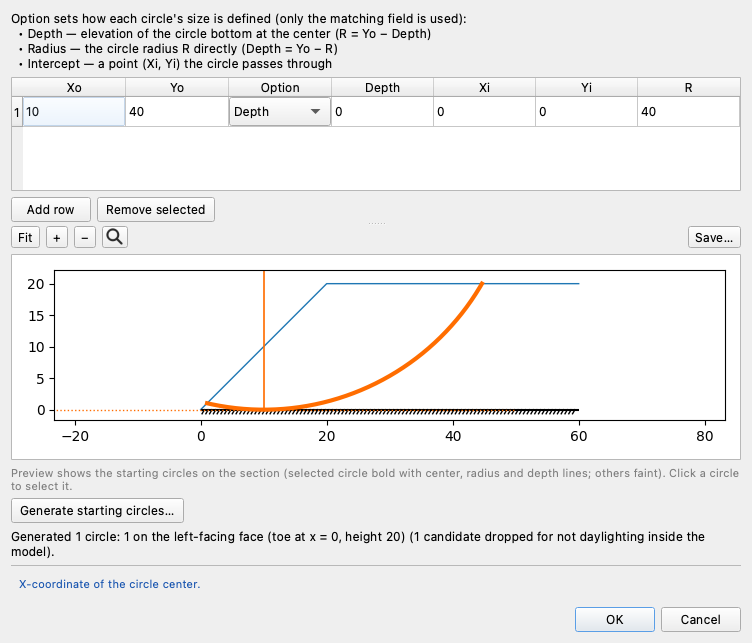
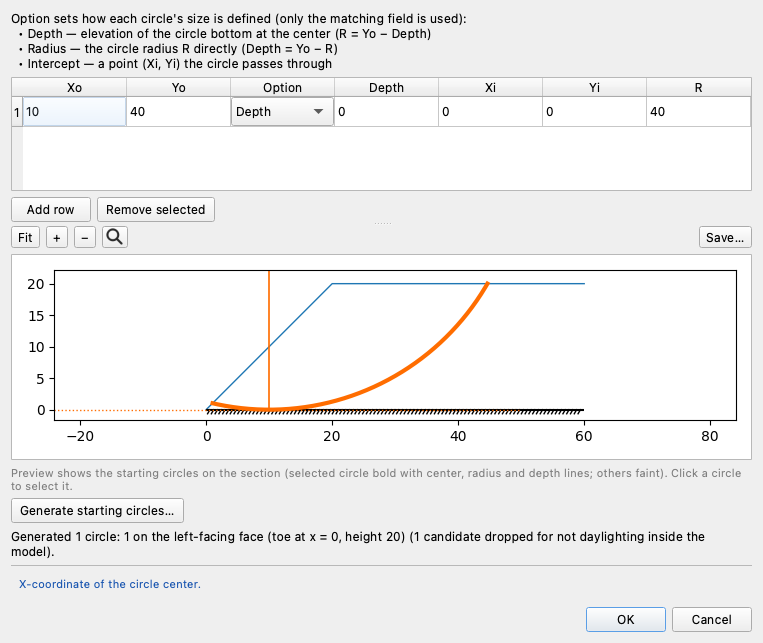
studio: the fit holds for forty circles, not just for one
Two ways the fit stopped being a fit as soon as the table was not the tutorial's
one-row one, both found by opening the dialog on forty circles and reading the
picture:

  - the row-number gutter widens with the row count, and its width before the first
    layout is not the width it ends up with, so R went back over the right edge and
    the horizontal scroll bar came back. The estimate now uses the gutter's size
    HINT, and the dialog closes whatever gap is left once the widgets have real
    geometry -- the last word on the fit belongs to them, not to a prediction.
  - a table taller than the screen asked for the whole splitter and got it, leaving
    the preview at nothing: the section simply was not in the dialog. The preview
    keeps its minimum now and the table gives way, since the table is the pane with
    a scroll bar for the purpose.

Both are covered by the check at forty rows, and both mutations -- dropping the
post-layout correction, dropping the clamp -- are caught.

Claude-Session: https://claude.ai/code/session_01XjjT2aBxw8gY7EFdpoUcpj

diff --git a/studio/editors.py b/studio/editors.py
@@ -1678,8 +1678,12 @@ class TableEditorDialog(QDialog):
 
         table = self._editable.table
         margins = self.layout().contentsMargins()
+        # sizeHint(), not width(): the row-number gutter is only as wide as the row
+        # count needs, and before the table has been laid out its width() has not
+        # caught up with the rows in it -- a 40-row table's gutter is wider than a
+        # 1-row table's, and measuring the stale one puts a column back over the edge.
         return (_fit_columns(table)
-                + table.verticalHeader().width() + 2 * table.frameWidth()
+                + table.verticalHeader().sizeHint().width() + 2 * table.frameWidth()
                 + self.style().pixelMetric(QStyle.PM_ScrollBarExtent)
                 + margins.left() + margins.right())
 
@@ -1696,7 +1700,9 @@ class TableEditorDialog(QDialog):
         dialog cannot be dragged small enough to squeeze the preview into a strip, and
         anything that appears later (the generator's summary line) grows the layout's
         own minimum, so the dialog grows with it rather than taking the room out of
-        the picture."""
+        the picture. Where the two cannot both be satisfied -- a table of forty
+        circles is taller than any screen -- the preview keeps its minimum and the
+        table scrolls, which is the pane that has a scroll bar for the purpose."""
         width = self._content_width()
         pane = self._table_pane_height()
         preview = (_PREVIEW_MIN_LINES * self.fontMetrics().height()
@@ -1706,8 +1712,8 @@ class TableEditorDialog(QDialog):
         # Everything that is not the splitter: help text, legend, generate bar,
         # buttons, help strip. sizeHint() knows them all; the splitter's own hint is
         # replaced by the two pane heights measured above.
-        height = (self.sizeHint().height() - self._split.sizeHint().height()
-                  + pane + preview)
+        chrome = self.sizeHint().height() - self._split.sizeHint().height()
+        height = chrome + pane + preview
 
         screen = self.screen() or QApplication.primaryScreen()
         if screen is not None:
@@ -1715,7 +1721,9 @@ class TableEditorDialog(QDialog):
             width = min(width, avail.width())
             height = min(height, avail.height())
         self.resize(width, height)
-        self._split.setSizes([pane, max(0, height - pane)])
+        split_height = max(0, height - chrome)
+        pane = max(0, min(pane, split_height - preview))
+        self._split.setSizes([pane, split_height - pane])
 
     def _refit_columns(self):
         """Re-fit the columns to content that arrived after the dialog opened (a
@@ -1727,9 +1735,33 @@ class TableEditorDialog(QDialog):
             return
         needed = self._content_width()
         if needed > self.width():
-            screen = self.screen() or QApplication.primaryScreen()
-            avail = screen.availableGeometry().width() if screen is not None else needed
-            self.resize(min(needed, avail), self.height())
+            self._grow(needed)
+        self._grow_to_fit_columns()
+
+    def _grow(self, width):
+        """Widen to ``width``, never past the screen."""
+        screen = self.screen() or QApplication.primaryScreen()
+        avail = screen.availableGeometry().width() if screen is not None else width
+        self.resize(min(width, avail), self.height())
+
+    def showEvent(self, event):
+        super().showEvent(event)
+        if getattr(self, "_content_sized", False):
+            self._grow_to_fit_columns()
+
+    def _grow_to_fit_columns(self):
+        """Close any gap between what the columns need and what the viewport gives
+        them, now that the widgets have been laid out.
+
+        The estimate made before the first layout is close but not exact: the
+        row-number gutter widens with the row count, and a style adds its own header
+        margins only when it lays the header out. Both are small and both are in the
+        direction that hides a column, so the last word on the fit belongs to the
+        widgets once they have real geometry."""
+        table = self._editable.table
+        deficit = table.horizontalHeader().length() - table.viewport().width()
+        if deficit > 0:
+            self._grow(self.width() + deficit)
 
     def _build_generate_bar(self, spec):
         """The generator button, dimmed with its own reason when it cannot run.

diff --git a/test/circles_editor_check.py b/test/circles_editor_check.py
@@ -68,6 +68,17 @@ def _bare_model():
     return d
 
 
+def _many_circles(n):
+    """The same model carrying ``n`` circles — a table taller than any screen, where
+    the row-number gutter is wider and the two panes cannot both have what they ask
+    for. Both are ways a fit measured on a one-row table stops being a fit."""
+    d = _load(LEM01)
+    base = dict(d["circles"][0])
+    d["circles"] = [dict(base, Xo=float(i), Yo=40.0 + i * 0.123456789)
+                    for i in range(n)]
+    return d
+
+
 def _shown(dlg):
     """Show ``dlg`` offscreen and let the layout settle, so widths and heights are
     the ones a user would meet rather than pre-layout hints."""
@@ -111,7 +122,8 @@ def test_all_columns_visible():
     editor = CATEGORY_EDITORS["circles"]
     out = []
     for label, model in (("with a circle", _load(LEM01)),
-                         ("empty", _bare_model())):
+                         ("empty", _bare_model()),
+                         ("forty circles", _many_circles(40))):
         dlg = _shown(editor.build(model, None))
         table = dlg._editable.table
         header = table.horizontalHeader()
@@ -158,6 +170,24 @@ def test_preview_is_below_the_table():
     out += _fail(caption is not None and
                  caption.geometry().bottom() <= dlg._preview.rect().bottom(),
                  "the preview caption is clipped by the bottom of its pane")
+    floor = dlg._preview.minimumHeight()
+    out += _fail(floor > 0 and dlg._preview.height() >= floor,
+                 f"the preview opened {dlg._preview.height()} px tall against its own "
+                 f"{floor} px minimum")
+    dlg.deleteLater()
+
+    # A table taller than the screen must not squeeze the preview out of the dialog:
+    # the table is the pane with a scroll bar, so it is the pane that gives way.
+    dlg = _shown(CATEGORY_EDITORS["circles"].build(_many_circles(40), None))
+    # The splitter's allocation, not the widget's own height: a squeezed pane keeps
+    # reporting the height it asked for while the splitter draws it at nothing.
+    given = dlg._split.sizes()[1]
+    out += _fail(given >= dlg._preview.minimumHeight(),
+                 f"forty circles left the preview {given} px of the splitter, under "
+                 f"its {dlg._preview.minimumHeight()} px minimum")
+    out += _fail(dlg._editable.table.verticalScrollBar().isVisible(),
+                 "forty circles did not put a scroll bar on the table, so the rows "
+                 "beyond the pane cannot be reached")
     dlg.deleteLater()
     return out
 
